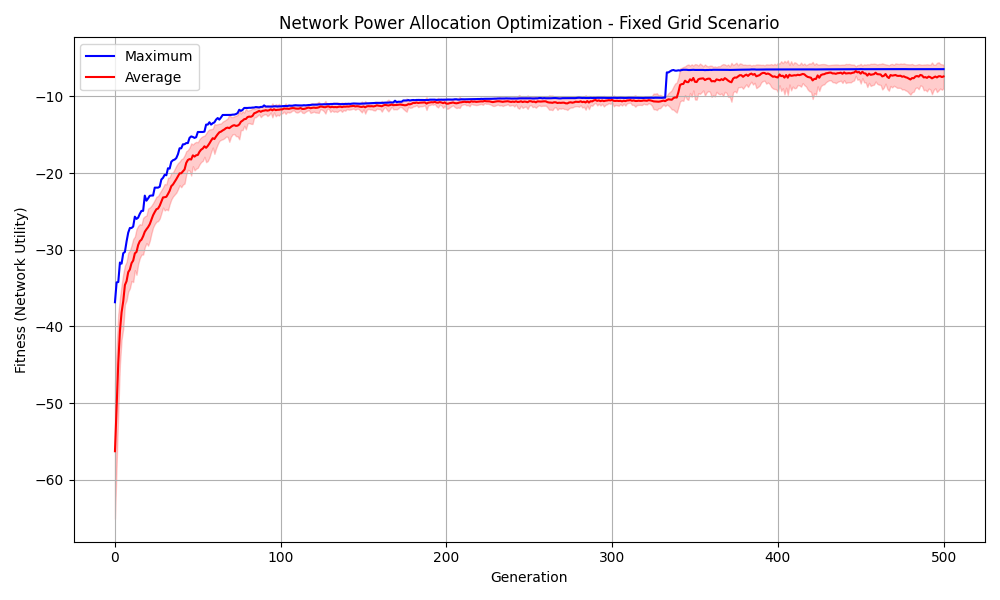
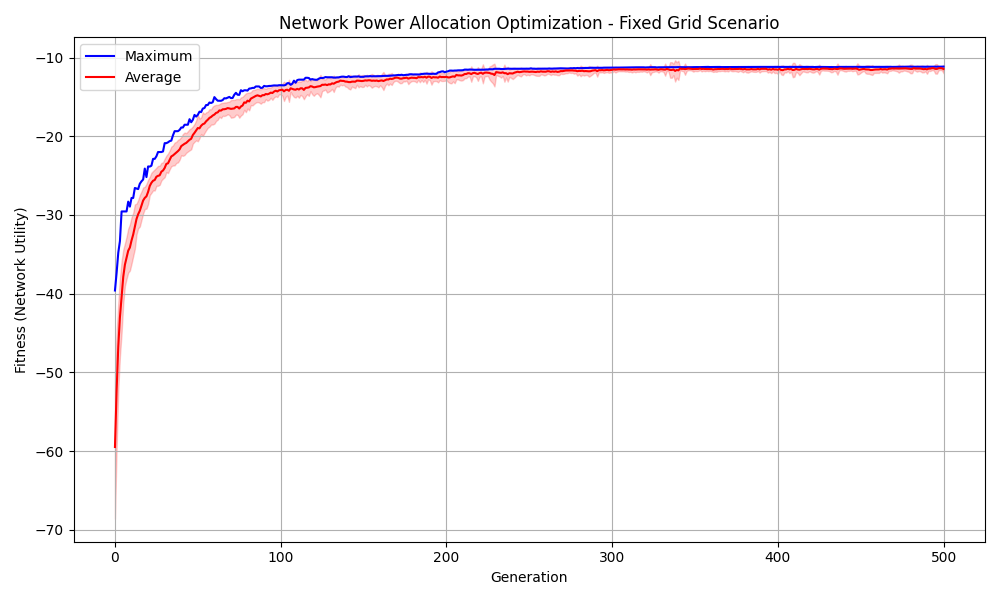
tmp_save_4.14
add new predict with GDM

diff --git a/predict_with_GDM_new.py b/predict_with_GDM_new.py
@@ -1,0 +1,87 @@
+import torch
+import numpy as np
+import matplotlib.pyplot as plt
+from env import make_aigc_env, config as cnf
+from actors.diffusion import Diffusion
+from actors.diffusion.model import MLP
+from visualize.predict_utils import launch_visualization, load_actor
+from test.test_case import fixed_grid_environment
+
+def state(mode):
+    import time
+    if mode == 1:
+        current_time = int(time.time() * 1000) & 0xFFFFFFFF
+        np.random.seed(current_time)
+        x_a = np.random.uniform(0, 1, cnf.NUM_A_AP)
+        y_a = np.random.uniform(0, 1, cnf.NUM_A_AP)
+        h_a = np.random.uniform(0, 1, cnf.NUM_A_AP)
+        x_g = np.random.uniform(0, 1, cnf.NUM_G_AP)
+        y_g = np.random.uniform(0, 1, cnf.NUM_G_AP)
+        x_u = np.random.uniform(0, 1, cnf.NUM_USERS)
+        y_u = np.random.uniform(0, 1, cnf.NUM_USERS)
+        num_links_a = cnf.NUM_A_AP * cnf.NUM_USERS
+        num_links_g = cnf.NUM_G_AP * (cnf.NUM_USERS + cnf.NUM_A_AP)
+        num_links = num_links_a + num_links_g
+        p_alloc = np.random.uniform(0, 1, num_links)
+        reward_in = [0]
+        states = np.concatenate([x_a, y_a, h_a, x_g, y_g, x_u, y_u, p_alloc, reward_in])
+        return states
+    elif mode == 2:
+        states = np.array([0.66745387, 0.37393011, 0.07839815, 0.39788222, 0.68525645,
+                           0.1135878, 0.54680112, 0.76521719, 0.06463682, 0.46406943,
+                           0.7922931, 0.95806476, 0.51846068, 0.06952451, 0.07222627,
+                           0.19793278, 0.34558805, 0.08172587, 0.08332238, 0.6322325,
+                           0.46489023, 0.66037147, 0.06351993, 0.86848459, 0.94208818,
+                           0.5180761, 0.46945286, 0.83407335, 0.43001843, 0.95114709,
+                           0.79497774, 0.27064889, 0.22297726, 0.35596628, 0.27442176,
+                           0.])
+        return states
+    elif mode == 3:
+        # 调用test_case.py中的fixed_grid_environment函数
+        return fixed_grid_environment()
+
+def simulate_gdm(model_path, interval=1.5, enable_layer_dist=True):
+    env, _, _ = make_aigc_env(1, 1)
+    custom_state = state(3)
+    state_dim = env.observation_space.shape[0]
+    action_dim = env.action_space.shape[0]
+    max_action = 1.0
+
+    device = torch.device("cuda:0" if torch.cuda.is_available() else "cpu")
+
+    # 创建GDM模型
+    actor_net = MLP(state_dim=state_dim, action_dim=action_dim)
+    actor = Diffusion(
+        state_dim=state_dim,
+        action_dim=action_dim,
+        model=actor_net,
+        max_action=max_action,
+        beta_schedule='vp',
+        n_timesteps=6
+    )
+    
+    # 加载模型权重
+    actor = load_actor(actor, model_path, device)
+    
+    # 调用可视化函数并显示窗口
+    launch_visualization(actor, custom_state, device, interval=interval, enable_layer_dist=enable_layer_dist)
+    plt.show()  # 阻塞显示图形窗口
+
+if __name__ == "__main__":
+    import argparse
+    
+    parser = argparse.ArgumentParser(description='GDM模型UAV网络仿真')
+    parser.add_argument('--model', type=str, default="log/default/diffusion/model-42/policy.pth",
+                        help='模型路径')
+    parser.add_argument('--interval', type=float, default=1.5,
+                        help='更新间隔(秒)')
+    parser.add_argument('--disable-layer-dist', action='store_true',
+                        help='禁用层分布可视化')
+    
+    args = parser.parse_args()
+    
+    simulate_gdm(
+        model_path=args.model, 
+        interval=args.interval, 
+        enable_layer_dist=not args.disable_layer_dist
+    )

diff --git a/predict_with_GDM.py b/predict_with_GDM.py
@@ -126,7 +126,7 @@ def simulate_diffusion(model_path, interval=1.5):
     # 创建环境、生成初始状态，并加载模型
     env, _, _ = make_aigc_env(1, 1)
     n_a = cnf.NUM_A_AP
-    custom_state = state(1)
+    custom_state = state(2)
     state_dim = env.observation_space.shape[0]
     action_dim = env.action_space.shape[0]
     max_action = 1.0
